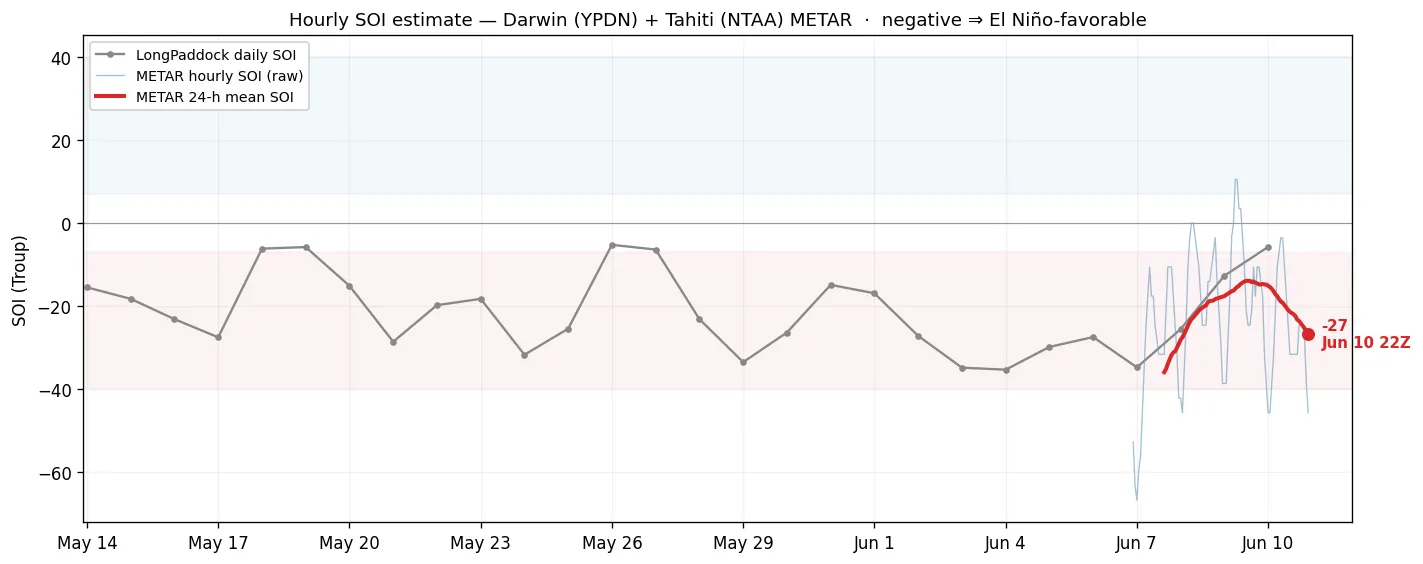
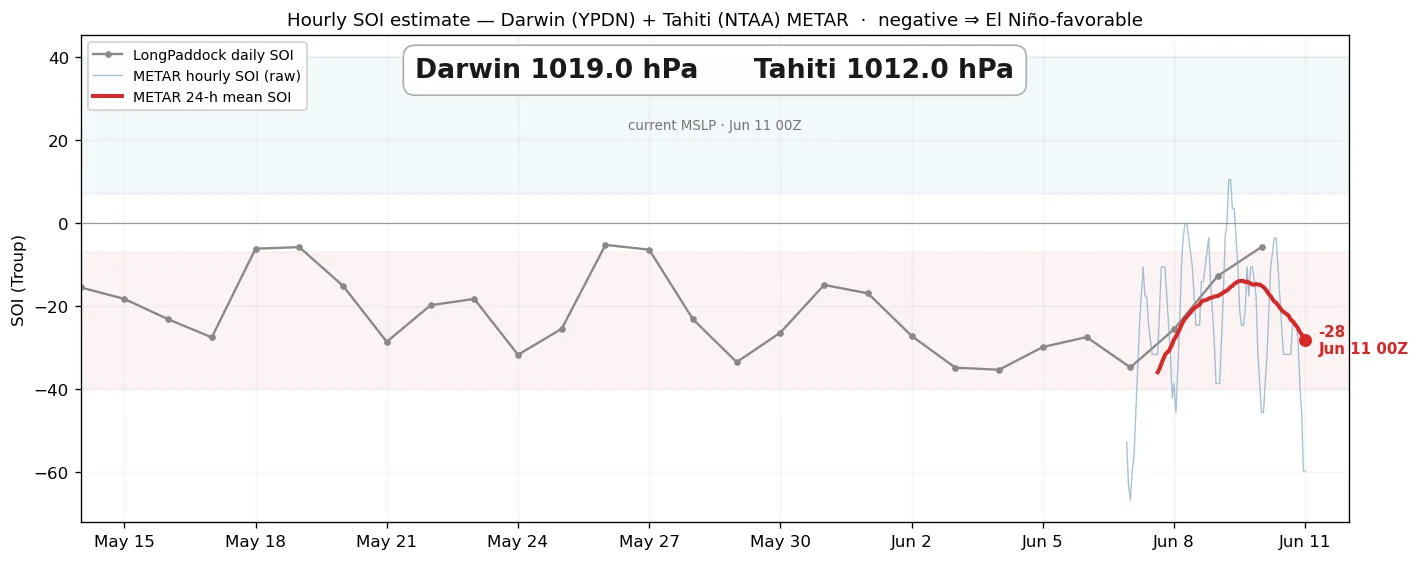
Hourly SOI: label current Darwin & Tahiti MSLP in large font
Adds a prominent top-of-plot readout of the latest sea-level pressure at each station (the raw
ingredients of the Tahiti−Darwin SOI), with the observation time beneath.

diff --git a/scripts/sst/hourly_soi.py b/scripts/sst/hourly_soi.py
@@ -129,7 +129,7 @@ def estimate(hist: pd.DataFrame, lp_soi: pd.Series, normals: dict):
 
 
 # ------------------------------------------------------------------------------ plot
-def plot(raw, soi24, lp_soi, bias, out: Path):
+def plot(raw, soi24, lp_soi, bias, hist, out: Path):
     t0 = soi24.index.max() - pd.Timedelta(days=PLOT_DAYS)
     fig, ax = plt.subplots(figsize=(12, 4.8))
     lp = lp_soi[lp_soi.index >= t0]
@@ -154,6 +154,16 @@ def plot(raw, soi24, lp_soi, bias, out: Path):
     ax.xaxis.set_major_locator(mdates.DayLocator(interval=3))
     ax.xaxis.set_major_formatter(mdates.DateFormatter("%b %-d"))
     ax.legend(loc="upper left", fontsize=8.5, framealpha=0.9); ax.grid(alpha=0.15)
+    # current sea-level pressure at each station (the raw ingredients of the SOI), large + prominent
+    dar = hist["darwin"].dropna(); tah = hist["tahiti"].dropna()
+    if len(dar) and len(tah):
+        when = max(dar.index[-1], tah.index[-1])
+        ax.text(0.5, 0.955, f"Darwin {dar.iloc[-1]:.1f} hPa      Tahiti {tah.iloc[-1]:.1f} hPa",
+                transform=ax.transAxes, ha="center", va="top", fontsize=16, fontweight="bold",
+                color="#1a1a1a", zorder=8,
+                bbox=dict(boxstyle="round,pad=0.45", fc="white", ec="0.65", alpha=0.92))
+        ax.text(0.5, 0.83, f"current MSLP · {when:%b %-d %HZ}", transform=ax.transAxes,
+                ha="center", va="top", fontsize=8, color="0.45", zorder=8)
     fig.tight_layout()
     out.parent.mkdir(parents=True, exist_ok=True)
     fig.savefig(out, dpi=120, bbox_inches="tight"); plt.close(fig)
@@ -169,7 +179,7 @@ def main(argv=None) -> int:
     hist = update_history(fetch_metar(args.hours))
     lp_soi, normals = longpaddock()
     raw, soi24, bias = estimate(hist, lp_soi, normals)
-    plot(raw, soi24, lp_soi, bias, Path(args.out))
+    plot(raw, soi24, lp_soi, bias, hist, Path(args.out))
     return 0
 
 
